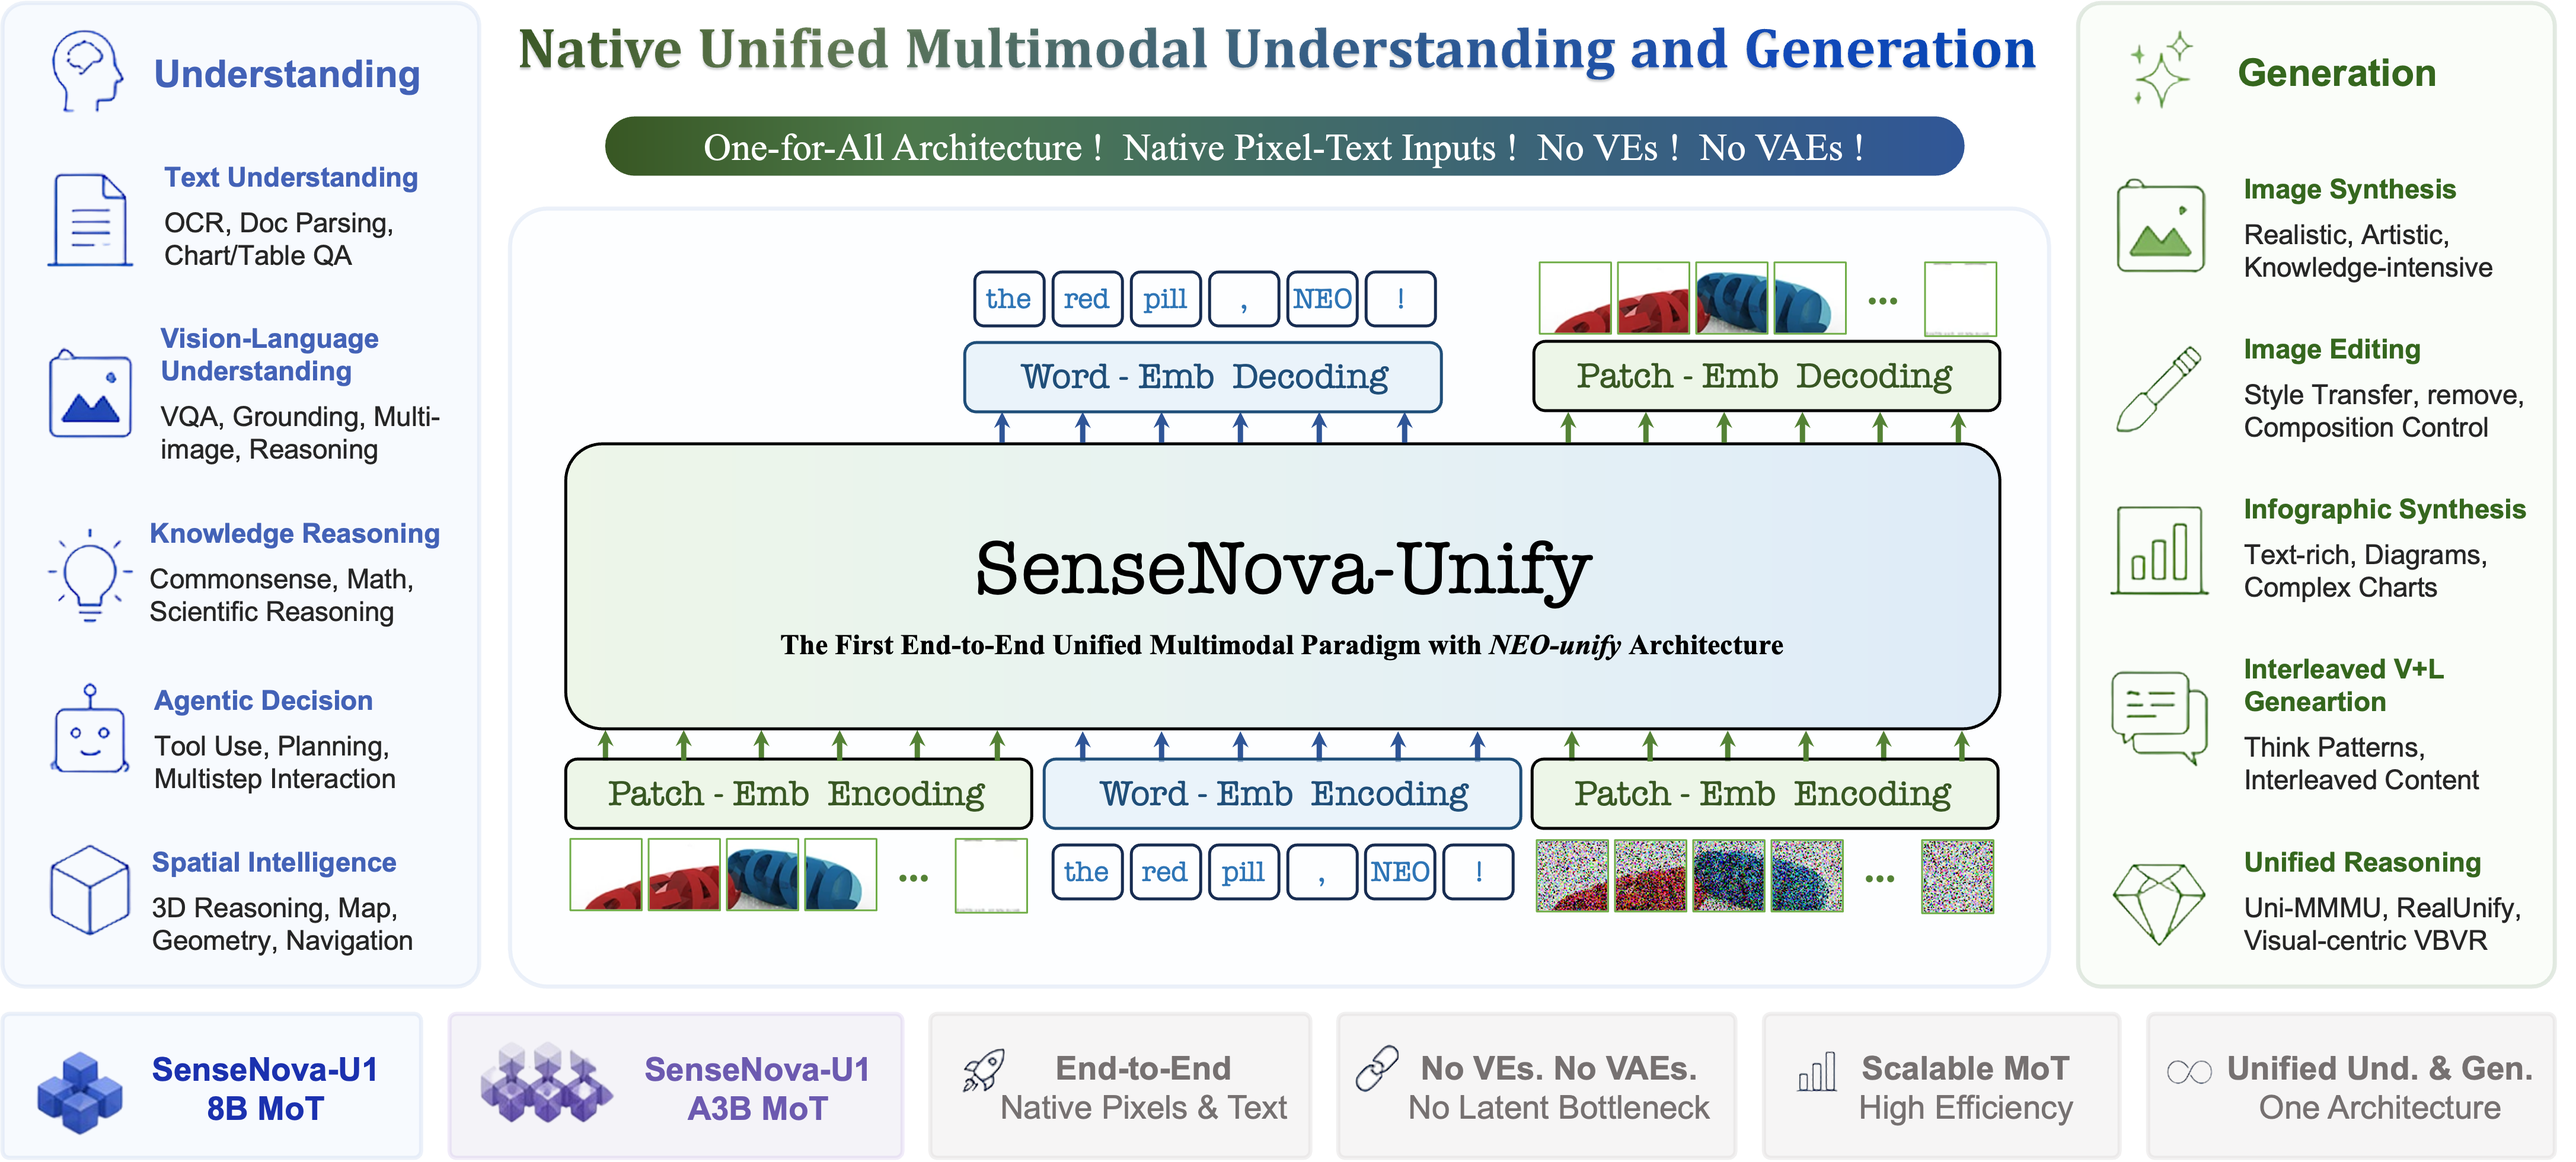
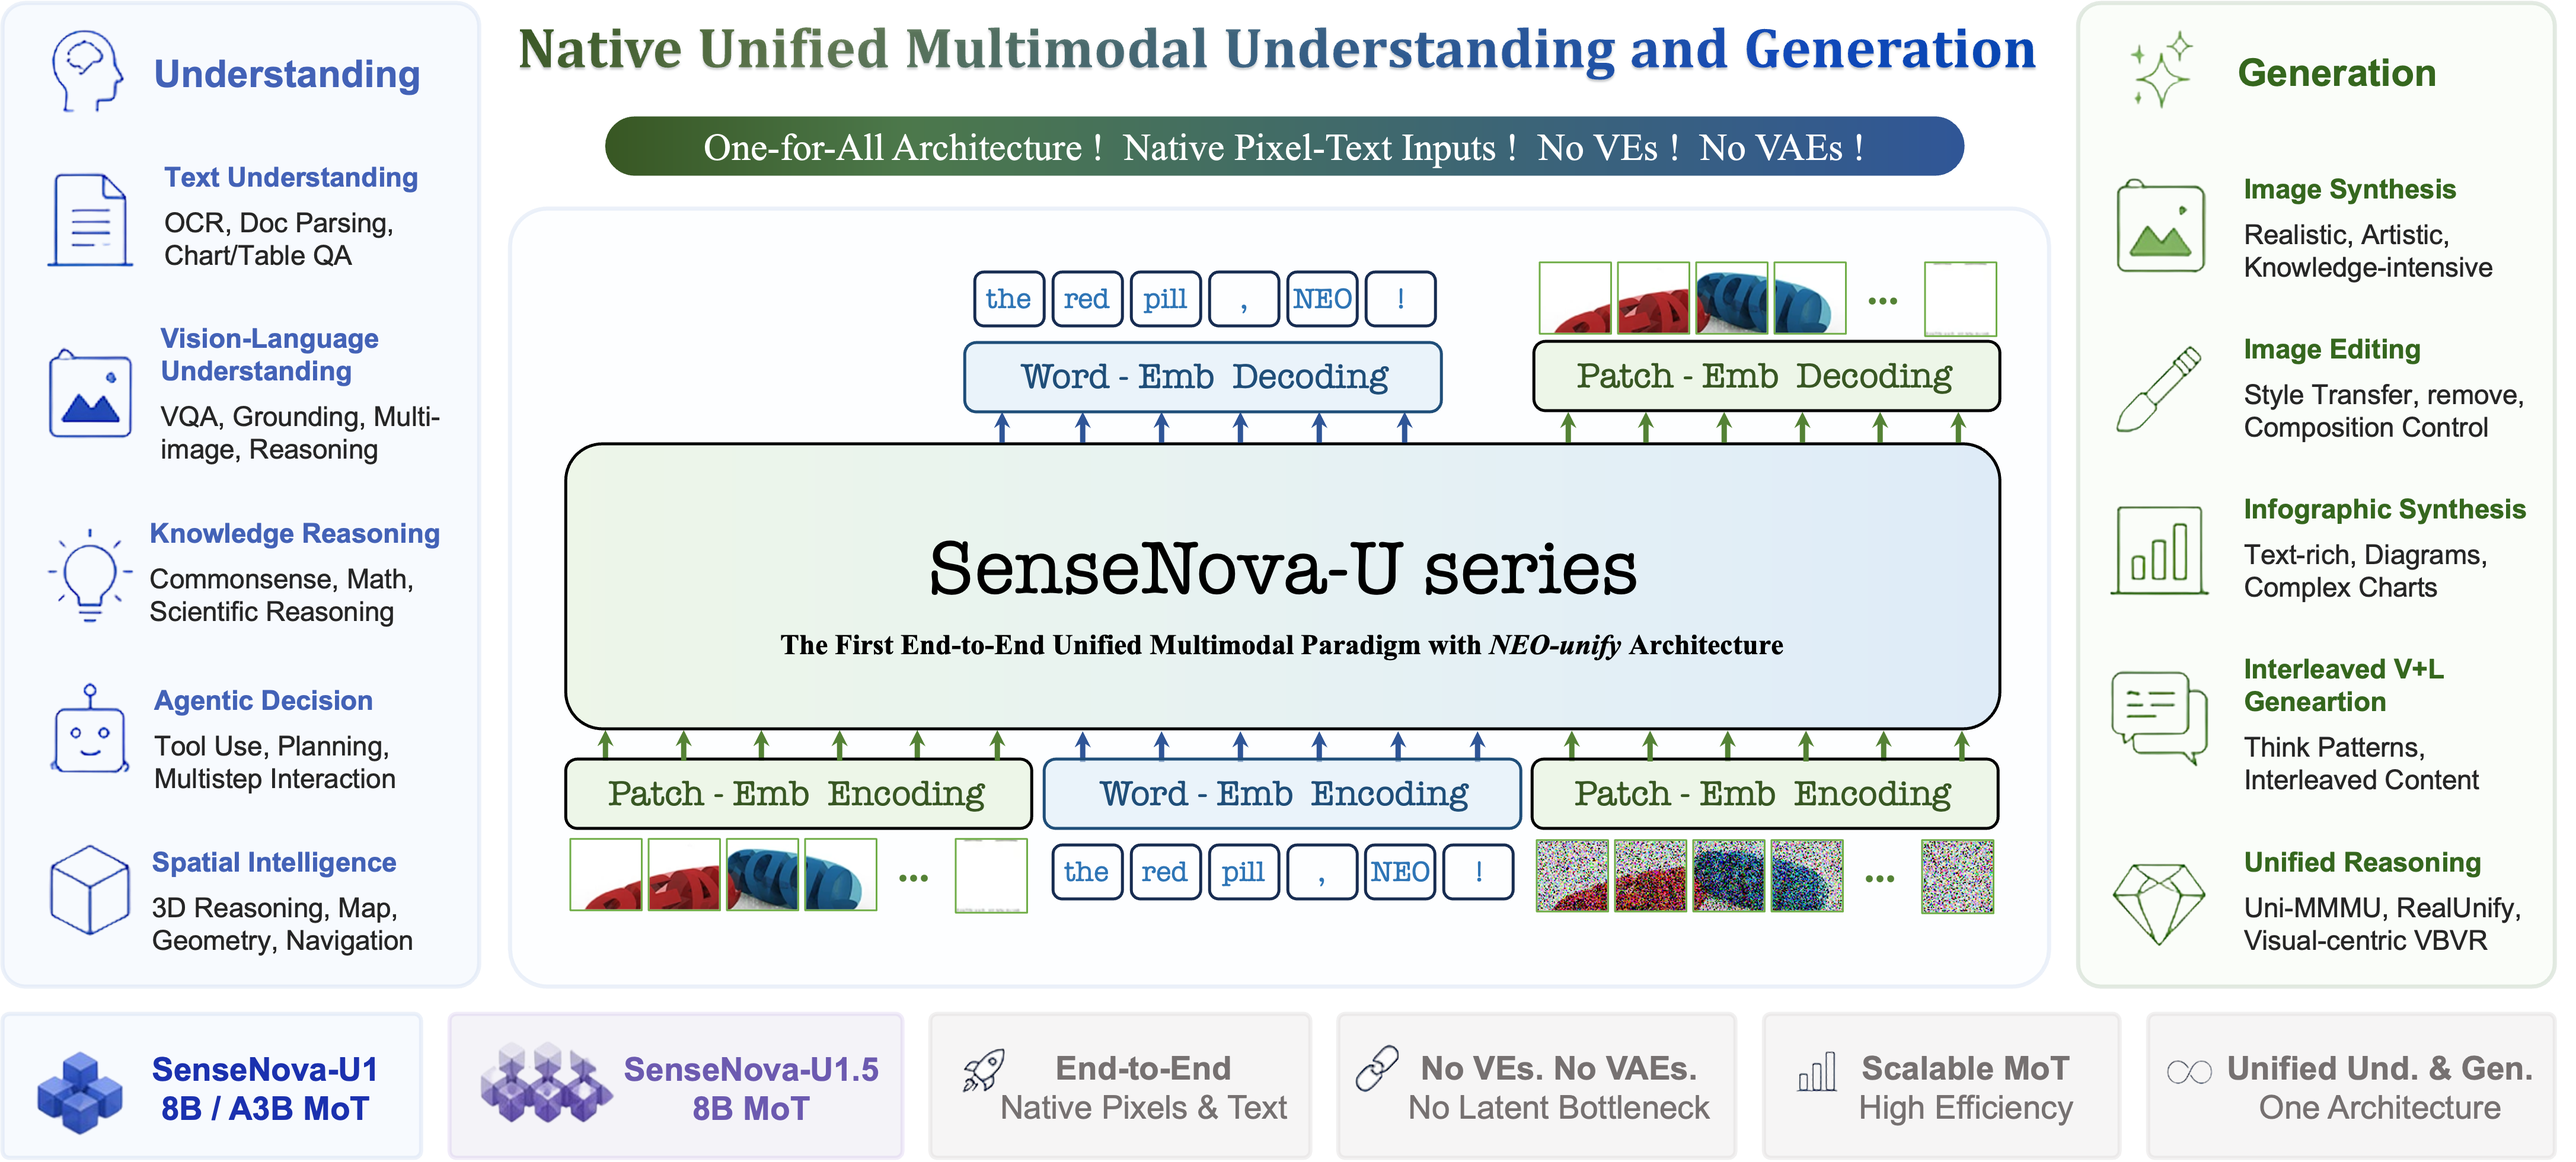
docs: update U1.5 release overview

Changed region(s): [[0.3418, 0.4666, 0.6525, 0.5288], [0.2486, 0.9021, 0.3418, 0.9643], [0.0621, 0.9332, 0.1554, 0.9643]]

diff --git a/README.md b/README.md
@@ -1,4 +1,5 @@
-# SenseNova-Unify: Native Unified Multimodal Understanding, Generation, and Editing
+# SenseNova-U series: Native Unified Paradigm with NEO-unify from the First Principles
+
 
 <p align="center">
   <strong>English</strong> | <a href="./README_CN.md">简体中文</a>
@@ -6,7 +7,8 @@
 
 <p align="center">
   <a href="https://arxiv.org/abs/2605.12500"><img src="https://img.shields.io/badge/arXiv-2605.12500-b31b1b.svg" alt="arXiv"></a>
-  <a href="https://huggingface.co/sensenova/SenseNova-U1.5-8B-MoT"><img src="https://img.shields.io/badge/%F0%9F%A4%97%20HuggingFace-U1.5--8B--MoT-yellow" alt="SenseNova-U1.5-8B-MoT on Hugging Face"></a>
+  <a href="https://huggingface.co/collections/sensenova/sensenova-u15"><img src="https://img.shields.io/badge/%F0%9F%A4%97%20HuggingFace-U1.5-yellow" alt="SenseNova-U1.5 on Hugging Face"></a>
+   <a href="https://huggingface.co/collections/sensenova/sensenova-u1"><img src="https://img.shields.io/badge/%F0%9F%A4%97%20HuggingFace-U1-yellow" alt="SenseNova-U1 on Hugging Face"></a>
   <a href="https://huggingface.co/blog/sensenova/neo-unify"><img src="https://img.shields.io/badge/Architecture-NEO--unify-2459B8" alt="NEO-unify"></a>
   <a href="./LICENSE"><img src="https://img.shields.io/badge/License-Apache%202.0-blue.svg" alt="License"></a>
   <a href="https://discord.com/invite/BuTXPHmQub"><img src="https://img.shields.io/badge/Discord-Join-5865F2?logo=discord&logoColor=white" alt="Discord"></a>
@@ -21,7 +23,7 @@
 
 ## 📣 Updated News
 
-- `[RELEASE_DATE]` Release [SenseNova-U1.5-8B-MoT](https://huggingface.co/sensenova/SenseNova-U1.5-8B-MoT), the official U1.5 checkpoint. Compared with the Preview, this release brings stronger complex-instruction following, text rendering and layout, more stable native 4K generation, more reliable image editing, and finer visual control.
+- `[RELEASE_DATE]` Release [SenseNova-U1.5-8B-MoT](https://huggingface.co/sensenova/SenseNova-U1.5-8B-MoT) that further improves instruction following, text and layout, native 4K generation, image editing, and visual control. We are also preparing the technical report and the full training pipeline, from SFT and RL to MOPD, for open-source release.
 
 - `[2026.08.04]` Community contributor [smthem on Hugging Face](https://huggingface.co/smthem) (GitHub [@smthemex](https://github.com/smthemex)) released a [Q8 GGUF checkpoint for SenseNova-U1.5-8B-MoT-Preview](https://huggingface.co/smthem/SenseNova-U1-8B-MoT-Merger-gguf/blob/main/SenseNova-U1.5-8B-MoT-Preview-Q8.gguf) (19.9 GB). Thank you for continuing to maintain and share quantized SenseNova-U1 weights with the community.
 
@@ -60,20 +62,16 @@
 
 ### 🚀 SenseNova-U1.5
 
-**[SenseNova-U1.5-8B-MoT](https://huggingface.co/sensenova/SenseNova-U1.5-8B-MoT)** is our latest native unified multimodal checkpoint, designed for more accurate, consistent, and reliable real-world visual creation. Without increasing model scale, we redesigned and strengthened the data distribution, task formulation, structured visual-instruction supervision, expert-capability consolidation, and task-oriented post-training pipeline.
-
-Built on [NEO-unify](https://huggingface.co/blog/sensenova/neo-unify), U1.5 models language and visual information end to end without separate visual encoders or VAEs. Its updated patch encoding and decoding layers support more continuous, high-resolution visual reconstruction.
+**[SenseNova-U1.5-8B-MoT](https://huggingface.co/sensenova/SenseNova-U1.5-8B-MoT)** is our latest native unified multimodal checkpoint for more accurate, consistent, reliable, and aesthetically compelling visual creation. Built on [NEO-unify](https://huggingface.co/blog/sensenova/neo-unify), we further strengthen the patchify layers, data distribution, task formulation, structured visual-instruction supervision, expert consolidation, and post-training pipeline.
 
 The official release focuses on six user-visible improvements:
 
-- **Higher-quality image generation:** stronger composition, color harmony, materials, textures, lighting, realism, and fine detail.
-- **Stronger complex-instruction following:** more consistent handling of subjects, object counts, spatial relationships, text, layouts, styles, and preservation requirements within one request.
-- **Better text rendering and complex layouts:** more legible Chinese and English text and more reliable information hierarchy in posters, infographics, brand assets, and other text-dense designs.
-- **More stable native 4K generation:** better global structure and local consistency across textures, materials, typography, and lighting at high resolution.
-- **More reliable native image editing:** stronger preservation of subject identity, geometry, spatial relationships, layouts, and unedited regions, with better local, text, multi-reference, insertion, and replacement edits.
-- **More precise visual control:** improved use of bounding boxes, visual markers, and single- or multi-image references to control specified regions and objects.
-
-During training, task-specialized expert models strengthen text and infographic rendering, aesthetic quality, and image editing. Their capabilities are consolidated into one unified checkpoint, so inference requires no expert routing or manual model selection. Task-oriented post-training further targets instruction adherence, global visual quality, and edit fidelity.
+- **Higher-quality image generation:** improved composition, color harmony, material rendering, lighting, realism, and fine-grained detail.
+- **Better text rendering and infographic generation:** more legible Chinese and English text, with clearer information hierarchy in posters, infographics, brand assets, and other text-dense designs.
+- **More efficient native 4K generation:** more coherent global structure and stable high-resolution output with improved generation efficiency.
+- **More reliable native image editing:** stronger preservation of subject identity and unedited content across local, text, multi-reference, insertion, and replacement edits.
+- **Stronger complex-instruction following:** more consistent execution of object counts, spatial relationships, layouts, styles, and multiple constraints within a single request.
+- **More precise visual control:** more accurate region- and object-level control through bounding boxes, visual markers, and single- or multi-image references.
 
 #### Benchmarks
 
